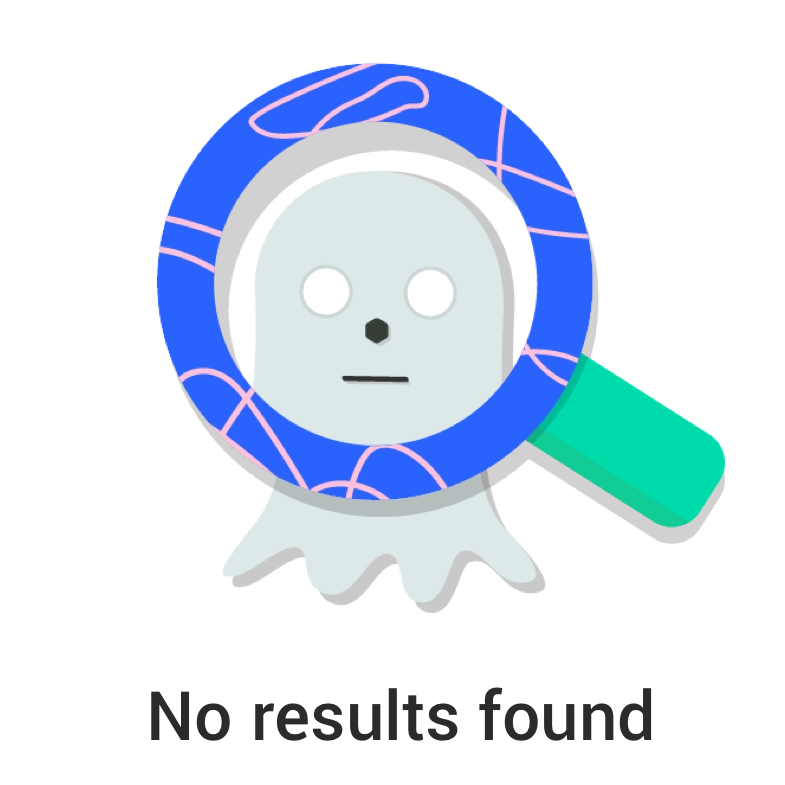
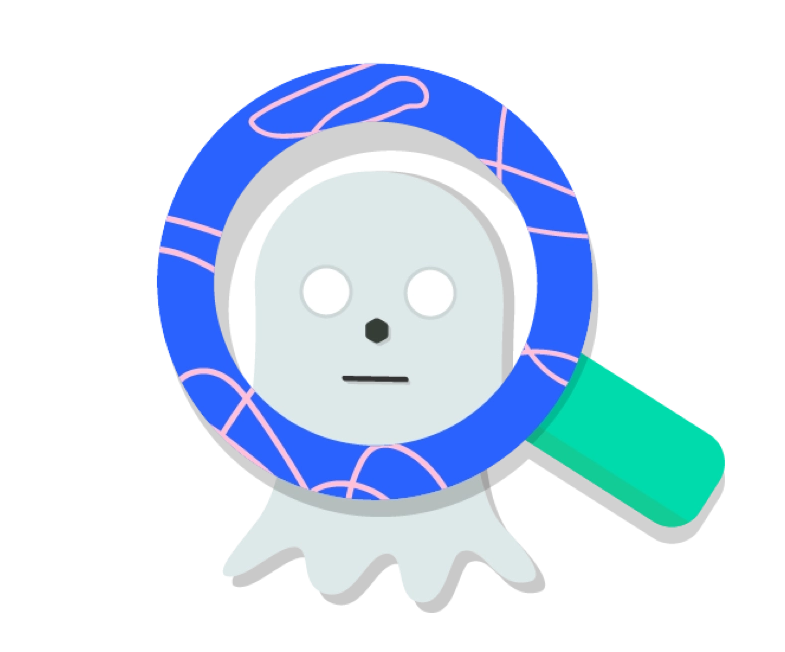
redesign and prepare search section

diff --git a/src/components/Section1/Carousel1.jsx b/src/components/Section1/Carousel1.jsx
@@ -1,21 +1,33 @@
-import React, {useContext, useEffect} from 'react';
+import React, {useContext, useEffect, useState} from 'react';
+import { Redirect } from 'react-router';
 import { Link } from 'react-router-dom';
 import MainContext from '../../ContextAPI';
 
 const Carousel = () => {
   const context = useContext(MainContext);
   const handleToggleToList = context.handleToggleToList;
+  const allFoods = context.allFoods;
 
-// 18 20 11 9 6
-useEffect(() => {
-  const cartFoods = context.cartFoods;
-  cartFoods.map(cartFood => {
-    if(cartFood.id === 18 || cartFood.id === 20 || cartFood.id === 11 || cartFood.id === 9 || cartFood.id === 6){
-      document.getElementById(`cartBtn${cartFood.id}`).innerText = 'حذف از سبد';
-    }
-  });
-  window.scrollTo(0, 0);
-},[]);
+  const [clickedFoodId,setClickedFoodId] = useState();
+  const [goToSingleFood, setGoToSingleFood] = useState(false);
+  const redirectToSingleFood = (id) => {        
+      setGoToSingleFood(true);
+      setClickedFoodId(id);
+  };
+
+    useEffect(() => {
+      const cartFoods = context.cartFoods;
+      cartFoods.map(cartFood => {
+        console.log(cartFood);
+        if(cartFood.id === '18' || cartFood.id === '20' || cartFood.id === '11' || cartFood.id === '9' || cartFood.id === '6'){
+          document.getElementById(`cartBtn${cartFood.id}`).innerText = 'حذف از سبد';
+        }
+      });
+    });
+
+    useEffect(()=>{
+      window.scrollTo(0, 0);
+    }, [])
 
     return (
         <div className="row">
@@ -36,7 +48,7 @@ useEffect(() => {
                 <div className="carousel-caption">
                   <p>پیتزای سبزیجات</p>
                   <a className="btn btn-warning" id='cartBtn18' onClick={(event)=>handleToggleToList(event.target, '18', false, false)}>سفارش</a>
-                  <Link to="/singleFood" className="btn btn-danger">صفحه غذا</Link>
+                  <a onClick={() => redirectToSingleFood(18)} className="btn btn-danger">صفحه غذا</a>
                 </div>
               </div>
               <div className="carousel-item">
@@ -44,7 +56,7 @@ useEffect(() => {
                 <div className="carousel-caption">
                   <p>پنکیک کاراملی</p>
                   <a className="btn btn-warning" id='cartBtn20' onClick={(event)=>handleToggleToList(event.target, '20', false, false)}>سفارش</a>
-                  <Link to="/singleFood" className="btn btn-danger">صفحه غذا</Link>
+                  <a onClick={() => redirectToSingleFood(20)} className="btn btn-danger">صفحه غذا</a>
                 </div>
               </div>
               <div className="carousel-item">
@@ -52,7 +64,7 @@ useEffect(() => {
                 <div className="carousel-caption">
                   <p>رپ مرغ و سبزیجات</p>
                   <a className="btn btn-warning" id='cartBtn11' onClick={(event)=>handleToggleToList(event.target, '11', false, false)}>سفارش</a>
-                  <Link to="/singleFood" className="btn btn-danger">صفحه غذا</Link>
+                  <a onClick={() => redirectToSingleFood(11)} className="btn btn-danger">صفحه غذا</a>
                 </div>
               </div>
               <div className="carousel-item">
@@ -60,7 +72,7 @@ useEffect(() => {
                 <div className="carousel-caption">
                   <p>دوبل برگر ویژه</p>
                   <a className="btn btn-warning" id='cartBtn9' onClick={(event)=>handleToggleToList(event.target, '9', false, false)}>سفارش</a>
-                  <Link to="/singleFood" className="btn btn-danger">صفحه غذا</Link>
+                  <a onClick={() => redirectToSingleFood(9)} className="btn btn-danger">صفحه غذا</a>
                 </div>
               </div>
               <div className="carousel-item">
@@ -68,7 +80,7 @@ useEffect(() => {
                 <div className="carousel-caption">
                   <p>ماهی کبابی(رژیمی)</p>
                   <a className="btn btn-warning" id='cartBtn6' onClick={(event)=>handleToggleToList(event.target, '6', false, false)}>سفارش</a>
-                  <Link to="/singleFood" className="btn btn-danger">صفحه غذا</Link>
+                  <a onClick={() => redirectToSingleFood(6)} className="btn btn-danger">صفحه غذا</a>
                 </div>
               </div>
             </div>
@@ -82,6 +94,13 @@ useEffect(() => {
               </ol>
             </div>
           </div>
+          {goToSingleFood ? <Redirect
+                        to={{
+                            pathname: `/singleFood/${allFoods[clickedFoodId].id}`,
+                            state: {key: allFoods[clickedFoodId].id}
+                        }}
+                        /> : null
+                    }
         </div>
      );
 }

diff --git a/src/components/Section4/SearchResults.jsx b/src/components/Section4/SearchResults.jsx
@@ -5,44 +5,23 @@ const SearchResults = ({history}) => {
     const redirectToSingleFood = () => {
         history.push("/singleFood");
     }
-    return ( 
+    return (
         <Fragment>
-            <div className="card d4SingleCard"  onClick={redirectToSingleFood}>
-                <img className="card-img-top cardImage d4CardImage" src="Images/d33.jpg" alt=""/>
-                <div className="card-body cardElement d4CardElement ">
-                <h2 className="card-title">چیز برگر</h2>
-                <h4 className="card-text">قیمت:&nbsp;&nbsp;&nbsp;&nbsp;&nbsp;20,000<small>تومان</small></h4>
-                <div>
-                <a href="/#" className="iconStyle d3IconStyle"><span className="fas fa-heart" /></a>
-                <a href="/#" className="iconStyle d3IconStyle"><span className="fas fa-shopping-cart" /></a>
-                <a href="/#" className="iconStyle d3IconStyle"><span className="fas fa-info" /></a>
-                </div>
+            <div className='d4SearchResult'  onClick={redirectToSingleFood}>
+                <img src="/Images/giahi/حمص.jpg" alt=""/>
+                <h2 className="card-title">فست فود / چیز برگر</h2>
+                <button className='btn'>بیشتر...</button>
             </div>
-        </div>
-            <div className="card d4SingleCard" onClick={redirectToSingleFood}>
-                <img className="card-img-top cardImage d4CardImage" src="Images/d35.jpg" alt=""/>
-                <div className="card-body cardElement d4CardElement ">
-                <h2 className="card-title">استیک</h2>
-                <h4 className="card-text">قیمت:&nbsp;&nbsp;&nbsp;&nbsp;&nbsp;20,000<small>تومان</small></h4>
-                <div>
-                <a href="/#" className="iconStyle d3IconStyle"><span className="fas fa-heart" /></a>
-                <a href="/#" className="iconStyle d3IconStyle"><span className="fas fa-shopping-cart" /></a>
-                <a href="/#" className="iconStyle d3IconStyle"><span className="fas fa-info" /></a>
-                </div>
+            <div className='d4SearchResult'  onClick={redirectToSingleFood}>
+                <img src="/Images/giahi/حمص.jpg" alt=""/>
+                <h2 className="card-title">فست فود / چیز برگر</h2>
+                <button className='btn'>بیشتر...</button>
             </div>
-        </div>
-            <div className="card d4SingleCard" onClick={redirectToSingleFood}>
-                <img className="card-img-top cardImage d4CardImage" src="Images/d36.jpg" alt=""/>
-                <div className="card-body cardElement d4CardElement ">
-                <h2 className="card-title">ساق مرغ</h2>
-                <h4 className="card-text">قیمت:&nbsp;&nbsp;&nbsp;&nbsp;&nbsp;20,000<small>تومان</small></h4>
-            <div>
-              <a href="/#" className="iconStyle d3IconStyle"><span className="fas fa-heart" /></a>
-              <a href="/#" className="iconStyle d3IconStyle"><span className="fas fa-shopping-cart" /></a>
-              <a href="/#" className="iconStyle d3IconStyle"><span className="fas fa-info" /></a>
+            <div className='d4SearchResult'  onClick={redirectToSingleFood}>
+                <img src="/Images/giahi/حمص.jpg" alt=""/>
+                <h2 className="card-title">فست فود / چیز برگر</h2>
+                <button className='btn'>بیشتر...</button>
             </div>
-          </div>
-        </div>
         </Fragment>
      );
 }

diff --git a/src/components/SingleFoodComponent.jsx b/src/components/SingleFoodComponent.jsx
@@ -5,10 +5,9 @@ const SingleFood = ({location}) => {
     const context = useContext(MainContext);
     const favoriteFoods = context.favoriteFoods;
     const cartFoods = context.cartFoods;
+    const handleToggleToList = context.handleToggleToList;
 
-    let handleToggleToList = context.handleToggleToList;
-    let thisFoodIndex = location.state.key;
-    let thisFood = context.allFoods[thisFoodIndex];
+    let thisFood = context.allFoods[location.state.key];
 
     useEffect(() => {
         for(let i=0; i < favoriteFoods.length; i++){
@@ -21,12 +20,11 @@ const SingleFood = ({location}) => {
                 document.getElementById(`cartIcon${cartFoods[i].id}`).style.color = 'green';
             }
         };
+    });
+
+    useEffect(()=>{
         window.scrollTo(0, 0);
-    }, []);
-
-
-        
-
+    }, [])
 
     return ( 
         <div id="singleFoodComponentParent">
@@ -41,11 +39,11 @@ const SingleFood = ({location}) => {
                     <p>تعداد سفارشات: {thisFood.orderQuantity} بار</p>
                     <div className="singleFoodIcons">
                         <span id={`heartIcon${thisFood.id}`}>
-                            <i className="fas fa-heart" onClick={(event)=>handleToggleToList(event.target, thisFoodIndex, true, true)}>
+                            <i className="fas fa-heart" onClick={(event)=>handleToggleToList(event.target, thisFood.id, true, true)}>
                             </i>
                         </span>
                         <span id={`cartIcon${thisFood.id}`}>
-                            <i className="fas fa-shopping-cart" onClick={(event)=>handleToggleToList(event.target, thisFoodIndex, false, true)}>
+                            <i className="fas fa-shopping-cart" onClick={(event)=>handleToggleToList(event.target, thisFood.id, false, true)}>
                             </i>
                         </span>
                     </div>

diff --git a/public/CSS/Main.css b/public/CSS/Main.css
@@ -522,34 +522,50 @@ label {
     color: var(--gold);
 }
 
-.d4SingleCard {
-    z-index: 15;
+.d4SearchResult {
     display: flex;
-    width: 80%;
-    margin-left: 10%;
+    width: 70%;
+    font-size: 30px;
+    color: var(--white);
+    background-color: rgba(44, 44, 39, .7);
+    border-radius: 40px;
+    flex-direction: row-reverse;
+    margin-left: 15%;
+    height: 80px;
     position: relative;
-    height: 150px;
-    margin-bottom: 40px;
-    border-radius: 10px;
+    margin-bottom: 15px;
+    transition: .5s;
 }
 
-.d4CardImage {
-    float: right;
-    position: absolute;
-    right: 0;
-    border-radius: 0 10px 10px 0;
-    height: 170px;
-    width: 170px;
+.d4SearchResult:hover {
+    background-color: var(--dark);
+    transform: scale(1.05);
 }
 
-.d4CardElement {
+.d4SearchResult img {
+    width: 80px;
+    height: 80px;
+    border-radius: 50%;
+}
+
+.d4SearchResult h2 {
+    margin-right: 20px;
+    line-height: 75px;
+}
+
+.d4SearchResult button {
     position: absolute;
     left: 0;
-    width: calc(100% - 170px);
-    background-color: var(--dark);
+    height: 80px;
+    border-radius: 50%;
+    width: 80px;
     color: var(--white);
-    border-radius: 10px 0 0 10px;
-    height: 170px;
+    direction: rtl;
+    background-color: var(--dark)
+}
+
+.d4SearchResult button:hover {
+    background-color: var(--gold);
 }
 
 

diff --git a/src/components/Common/Others/NoResults.jsx b/src/components/Common/Others/NoResults.jsx
@@ -1,13 +1,9 @@
 import React from 'react'
 
 const NoResults = () => {
-    const style = {
-        backgroundColor: 'rgba(256, 256, 256, .7',
-        borderRadius: '10%'
-    }
     return (
         <div className="row"> 
-            <img src="images/noResults.png" alt="" className='offset-1 col-10 offset-md-2 col-md-8 offset-lg-3 col-lg-6 p-3' style={style}/>
+            <img src="images/noResults.png" alt="" className='offset-1 col-10 offset-md-2 col-md-8 offset-lg-3 col-lg-6 p-2'/>
         </div>
      );
 }
